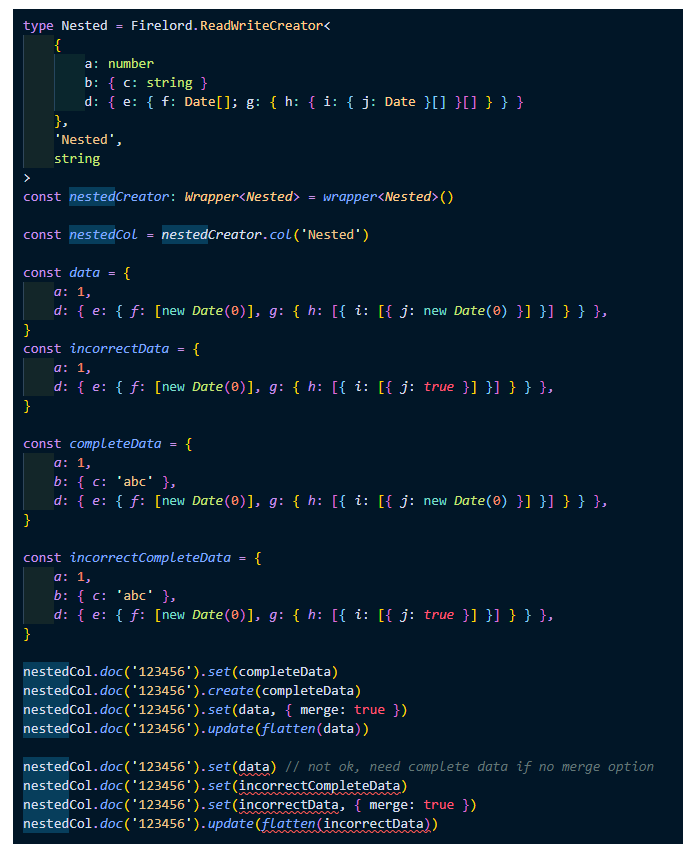
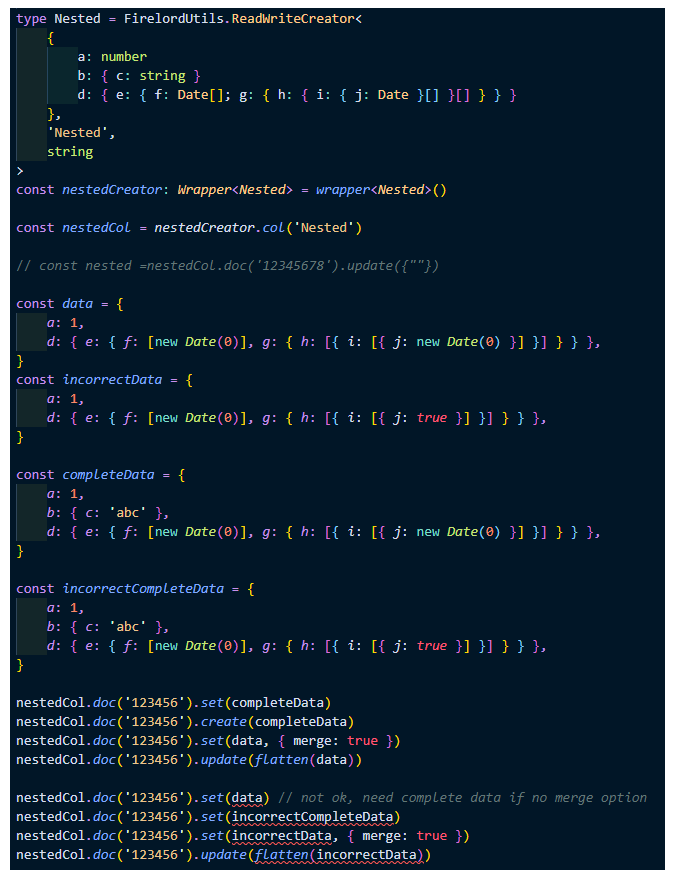
update doc

diff --git a/src/dontRunThis.test.ts b/src/dontRunThis.test.ts
@@ -385,43 +385,6 @@ users
 	.limit(1)
 	.where('beenTo', 'in', [['USA']])
 
-type a = FirelordUtils.ReadWriteCreator<
-	{
-		a:
-			| string
-			| Date
-			| number[]
-			| (string | number)[]
-			| (string | Date)[][]
-			| (string | number)[][][]
-	},
-	string,
-	string
->
-
-type b = a['write']
-type c = a['read']
-type f = a['compare']
-
-type a1 = FirelordUtils.ReadWriteCreator<
-	{
-		a: string | Date
-		b: { c: 1; d: 2 }
-	},
-	string,
-	string
->
-
-type b1 = a1['write']
-type c1 = a1['read']
-type f1 = a1['compare']
-
-type e1 = b1['b.c']
-
-type x = Nested['read']
-type y = Nested['write']
-type z = Nested['compare']
-
 type Nested = FirelordUtils.ReadWriteCreator<
 	{
 		a: number
@@ -434,6 +397,8 @@ type Nested = FirelordUtils.ReadWriteCreator<
 const nestedCreator: Wrapper<Nested> = wrapper<Nested>()
 
 const nestedCol = nestedCreator.col('Nested')
+
+// const nested =nestedCol.doc('12345678').update({""})
 
 const data = {
 	a: 1,
@@ -501,8 +466,8 @@ exampleCol.doc('1234567').update({
 
 exampleCol.doc('1234567').update({
 	aaa: 1,
-	zzz: 'stranger member',
-}) // reject stranger member
+	zzz: 'unknown member',
+}) // reject unknown member
 
 exampleCol.doc('1234567').update(
 	flatten({
@@ -511,7 +476,7 @@ exampleCol.doc('1234567').update(
 			fff: [{ ggg: true, jjj: 1, kkk: [{ lll: new Date(0), mmm: true }] }],
 		},
 	})
-) // ok, complex data
+) // ok
 
 exampleCol.doc('1234567').update(
 	flatten({
@@ -522,12 +487,12 @@ exampleCol.doc('1234567').update(
 				{
 					ggg: true,
 					jjj: 1,
-					kkk: [{ lll: new Date(0), mmm: true, zzz: 'stranger member' }],
+					kkk: [{ lll: new Date(0), mmm: true, zzz: 'unknown member' }],
 				},
 			],
 		},
 	})
-) // reject stranger member in complex data regardless of depth
+) // reject unknown member in complex data regardless of depth
 
 // set ok
 exampleCol.doc('1234567').set({
